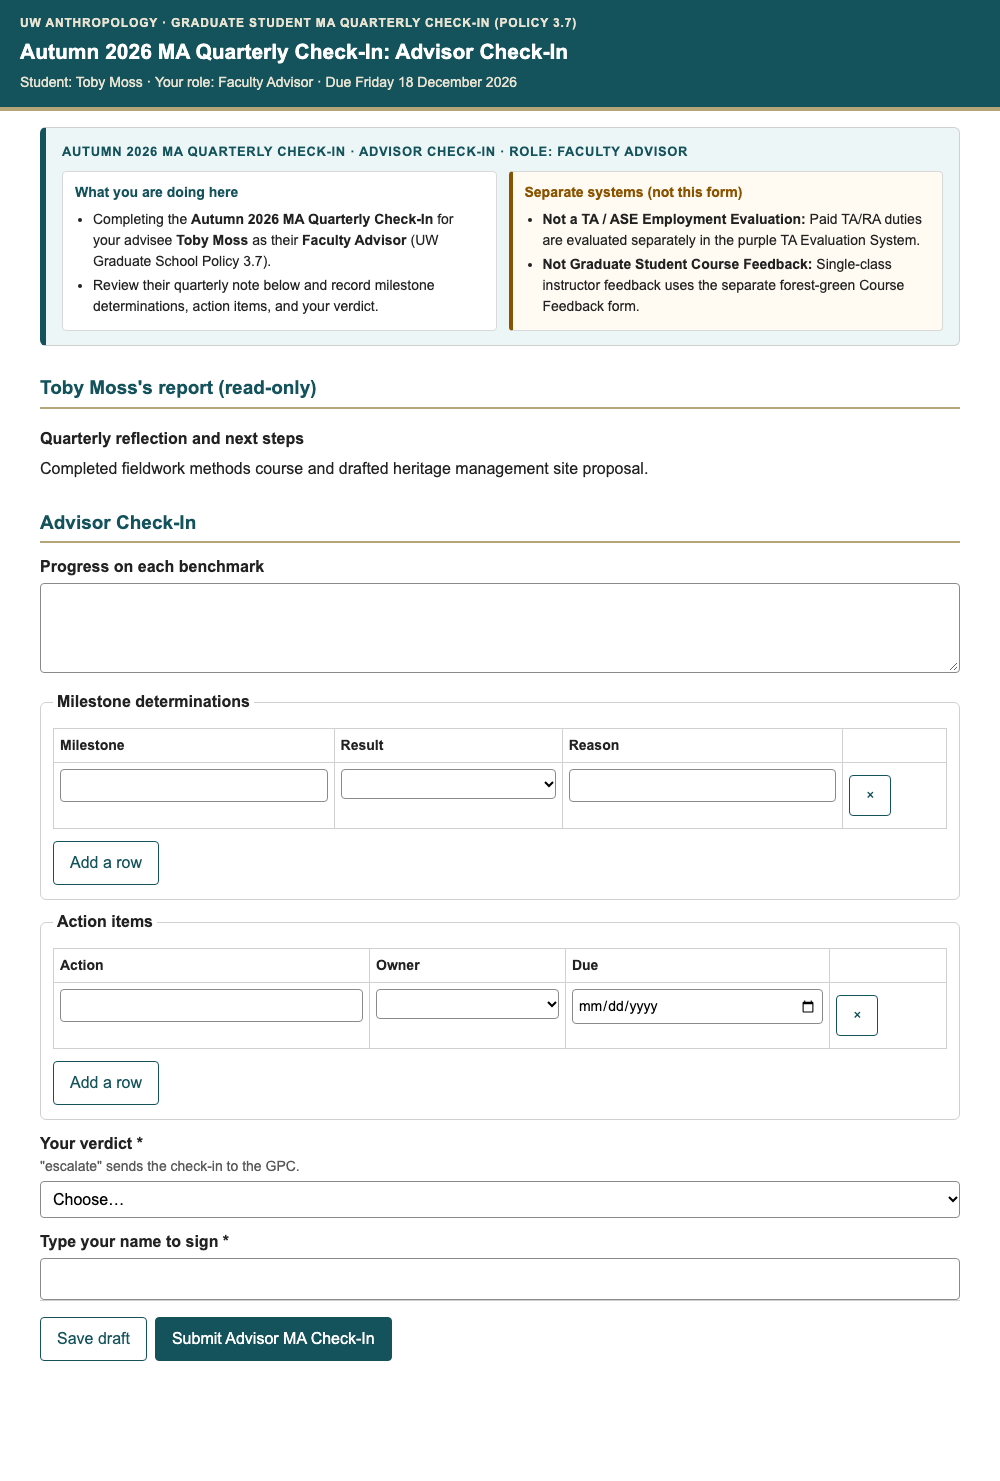
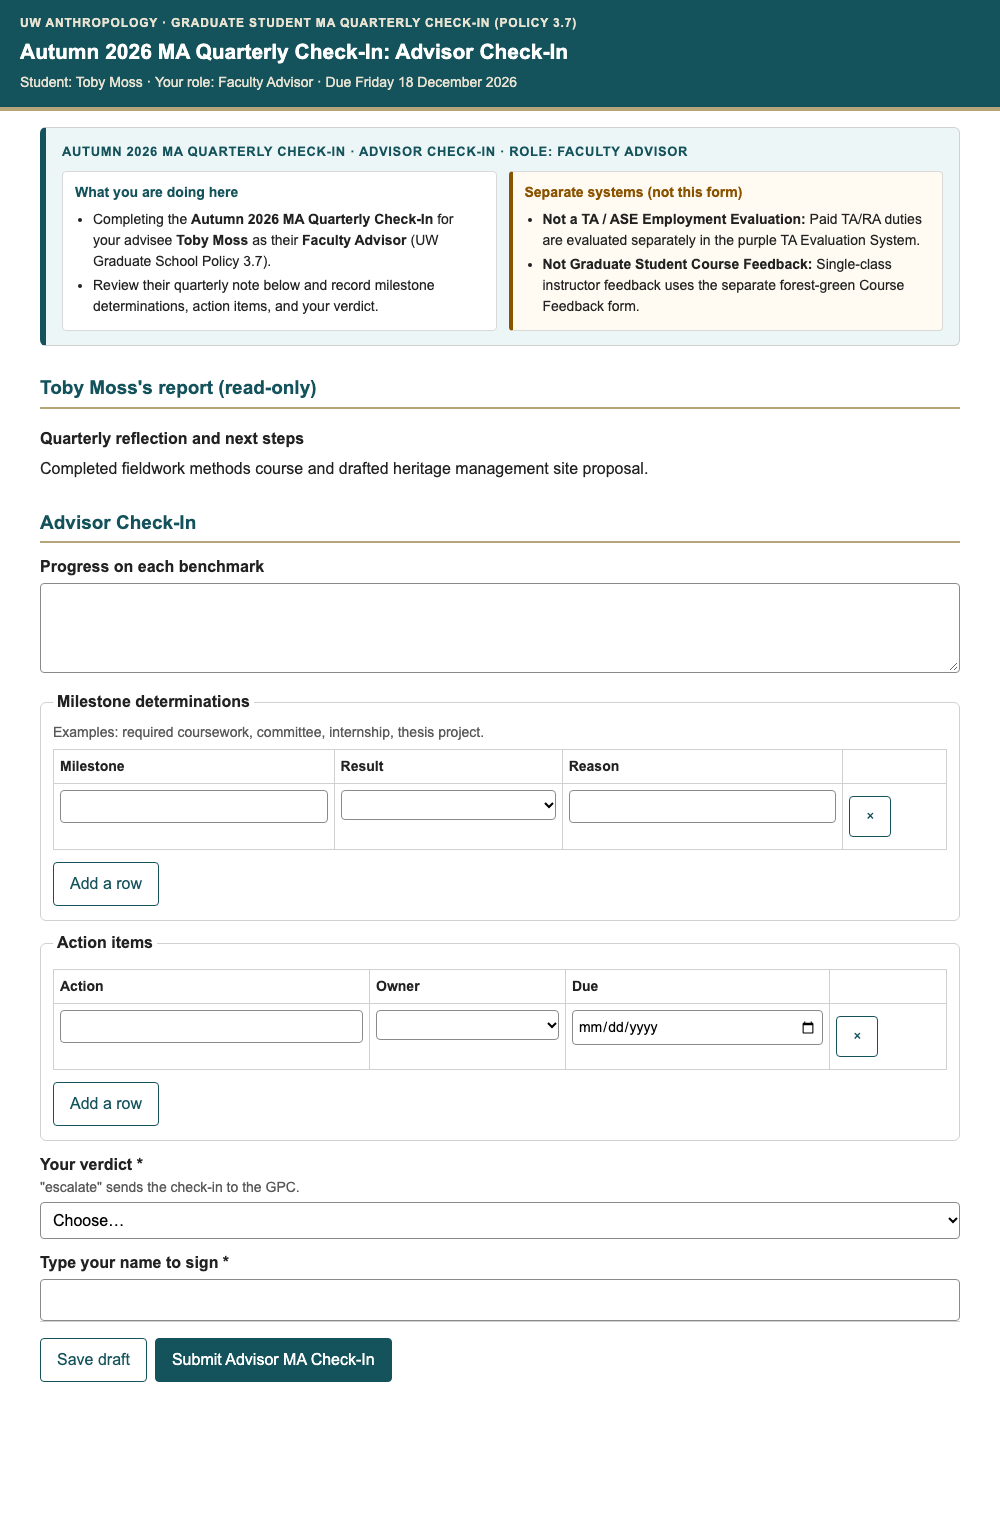
update milestone for review forms

diff --git a/grad-progress-review-workflow/app/Index.html b/grad-progress-review-workflow/app/Index.html
@@ -14,9 +14,11 @@
   var R = null, FIELDS = [];
 
   var YN = ['Yes', 'No'];
+  var PHD_MILESTONES_HELP = 'Required coursework, committee, MA, language or methods, qualifying or first-year review, prospectus, General Exam, IRB, fieldwork, candidacy, reading committee, Final Exam.';
+  var MA_MILESTONES_HELP = 'Examples: required coursework, committee, internship, thesis project.';
   var STUDENT_ANNUAL = [
     { key: 'status', label: 'Program, subfield, advisors and committee', help: 'Check what we have on file (shown above) and note anything to correct, including quarters on leave.', type: 'textarea' },
-    { key: 'milestones', label: 'Milestones', help: 'Committee, MA, language or methods, qualifying or first-year review, prospectus, General Exam, IRB, fieldwork, candidacy, reading committee, Final Exam.', type: 'rows',
+    { key: 'milestones', label: 'Milestones', help: PHD_MILESTONES_HELP, type: 'rows',
       columns: [{ key: 'milestone', label: 'Milestone' }, { key: 'doneOn', label: 'Done on', type: 'date' }, { key: 'plannedFor', label: 'Planned for' }] },
     { key: 'behindSchedule', label: 'If a milestone is past its expected date: what happened, and your plan', viewLabel: 'Milestone delays and plan', type: 'textarea' },
     { key: 'coursework', label: 'Courses this year', help: 'Filled in from your MyGrad transcript. Add courses planned and any incompletes.', type: 'rows',
@@ -57,7 +59,7 @@
   ];
   var ADVISOR_ANNUAL = [
     { key: 'meetingDate', label: 'Date you met the student', viewLabel: 'Date of advisor meeting', help: 'The meeting is expected before you evaluate.', type: 'date', required: true },
-    { key: 'milestoneDeterminations', label: 'Milestone determinations', help: 'For each milestone attempted this year. Printed in the letter as your written decision.', type: 'rows',
+    { key: 'milestoneDeterminations', label: 'Milestone determinations', help: 'For each milestone attempted this year (e.g., ' + PHD_MILESTONES_HELP.charAt(0).toLowerCase() + PHD_MILESTONES_HELP.slice(1, -1) + '). Printed in the letter as your written decision.', type: 'rows',
       columns: [{ key: 'milestone', label: 'Milestone' }, { key: 'result', label: 'Result', type: 'select', options: ['satisfied', 'not yet satisfied', 'not satisfied'] }, { key: 'reason', label: 'One-line reason' }] },
     { key: 'mentorChecklist', label: 'Mentor checklist', type: 'group', fields: [
       { key: 'deadlinesKnown', label: 'The student knows the upcoming milestone deadlines', type: 'select', options: YN },
@@ -83,14 +85,18 @@
     { key: 'advisingChallenges', label: 'Is anything making it hard to advise this student well? (optional)', viewLabel: 'Advisor note on advising', help: 'The GPC reads this, and the student sees it with the letter.', type: 'textarea' },
     { key: 'signatureName', label: 'Type your name to sign', help: 'Co-advisors can add to this draft; one of you signs.', type: 'text', required: true }
   ];
-  var ADVISOR_CHECKIN = [
-    { key: 'benchmarkProgress', label: 'Progress on each benchmark', type: 'textarea' },
-    { key: 'milestoneDeterminations', label: 'Milestone determinations', type: 'rows', columns: [{ key: 'milestone', label: 'Milestone' },
-      { key: 'result', label: 'Result', type: 'select', options: ['satisfied', 'not yet satisfied', 'not satisfied'] }, { key: 'reason', label: 'Reason' }] },
-    { key: 'actionItems', label: 'Action items', type: 'rows', columns: [{ key: 'action', label: 'Action' }, { key: 'owner', label: 'Owner', type: 'select', options: ['student', 'advisor', 'committee', 'program'] }, { key: 'due', label: 'Due', type: 'date' }] },
-    { key: 'verdict', label: 'Your verdict', viewLabel: 'Advisor verdict', type: 'select', options: ['resolved', 'continuing', 'escalate'], required: true, help: '"escalate" sends the check-in to the GPC.' },
-    { key: 'signatureName', label: 'Type your name to sign', type: 'text', required: true }
-  ];
+  function makeAdvisorCheckin(isMa) {
+    return [
+      { key: 'benchmarkProgress', label: 'Progress on each benchmark', type: 'textarea' },
+      { key: 'milestoneDeterminations', label: 'Milestone determinations', help: isMa ? MA_MILESTONES_HELP : 'Examples: ' + PHD_MILESTONES_HELP.charAt(0).toLowerCase() + PHD_MILESTONES_HELP.slice(1), type: 'rows', columns: [{ key: 'milestone', label: 'Milestone' },
+        { key: 'result', label: 'Result', type: 'select', options: ['satisfied', 'not yet satisfied', 'not satisfied'] }, { key: 'reason', label: 'Reason' }] },
+      { key: 'actionItems', label: 'Action items', type: 'rows', columns: [{ key: 'action', label: 'Action' }, { key: 'owner', label: 'Owner', type: 'select', options: ['student', 'advisor', 'committee', 'program'] }, { key: 'due', label: 'Due', type: 'date' }] },
+      { key: 'verdict', label: 'Your verdict', viewLabel: 'Advisor verdict', type: 'select', options: ['resolved', 'continuing', 'escalate'], required: true, help: '"escalate" sends the check-in to the GPC.' },
+      { key: 'signatureName', label: 'Type your name to sign', type: 'text', required: true }
+    ];
+  }
+  var ADVISOR_CHECKIN = makeAdvisorCheckin(false);
+  var ADVISOR_MA_CHECKIN = makeAdvisorCheckin(true);
   var EXTRA_LABELS = {
     compactCheck: 'Advisor-advisee compact check',
     planToCompletion: 'Plan to completion',
@@ -198,7 +204,7 @@
       }
     }
     if (R.stage === 'advisor') {
-      FIELDS = R.type === 'ANNUAL' ? ADVISOR_ANNUAL : ADVISOR_CHECKIN;
+      FIELDS = R.type === 'ANNUAL' ? ADVISOR_ANNUAL : (m.isMa ? ADVISOR_MA_CHECKIN : ADVISOR_CHECKIN);
       if (R.type === 'ANNUAL' && !draft.agreement) {
         draft.agreement = ['milestones', 'research', 'coursework', 'professional activity', 'next year\'s plan'].map(function (a) { return { area: a, agree: '', comment: '' }; });
         injected.push('agreement');
@@ -212,7 +218,7 @@
     }
     if (R.stage === 'ack') {
       FIELDS = ACK;
-      var advisorFields = R.type === 'ANNUAL' ? ADVISOR_ANNUAL : ADVISOR_CHECKIN;
+      var advisorFields = R.type === 'ANNUAL' ? ADVISOR_ANNUAL : (m.isMa ? ADVISOR_MA_CHECKIN : ADVISOR_CHECKIN);
       h += section("Your advisor's evaluation", renderReadOnlyFields(R.advisor || {}, advisorFields, ['signatureName'], EXTRA_LABELS));
       if (R.advisingChallenges) h += section("Your advisor's note on advising", nl2br(R.advisingChallenges));
       h += section('Final rating', esc(R.finalRating)) + section('Your letter', '<div class="card">' + nl2br(R.letterText) + '</div>');

diff --git a/grad-progress-review-workflow/app/tests/fix-d.test.js b/grad-progress-review-workflow/app/tests/fix-d.test.js
@@ -520,6 +520,18 @@ test('read-only review views render human-readable headings, table headers, and 
   );
   assert.match(checkinAck, /<h3>Progress on each benchmark<\/h3>/);
   assert.match(checkinAck, /<h3>Advisor verdict<\/h3>/);
+
+  const phdStudentMilestone = env.STUDENT_ANNUAL.find(f => f.key === 'milestones');
+  const phdAdvisorMilestone = env.ADVISOR_ANNUAL.find(f => f.key === 'milestoneDeterminations');
+  const phdCheckinMilestone = env.ADVISOR_CHECKIN.find(f => f.key === 'milestoneDeterminations');
+  const maCheckinMilestone = env.ADVISOR_MA_CHECKIN.find(f => f.key === 'milestoneDeterminations');
+  [phdStudentMilestone, phdAdvisorMilestone, phdCheckinMilestone].forEach(f => {
+    assert.match(f.help, /required coursework/i);
+    assert.ok(!/internship|thesis project/i.test(f.help), 'MA-only milestones do not appear on PhD forms');
+  });
+  assert.match(maCheckinMilestone.help, /required coursework/i);
+  assert.match(maCheckinMilestone.help, /internship/i);
+  assert.match(maCheckinMilestone.help, /thesis project/i);
 });
 
 test('Program.html GPC-only note labels and PdfEngine.gs labels avoid raw keys', () => {
